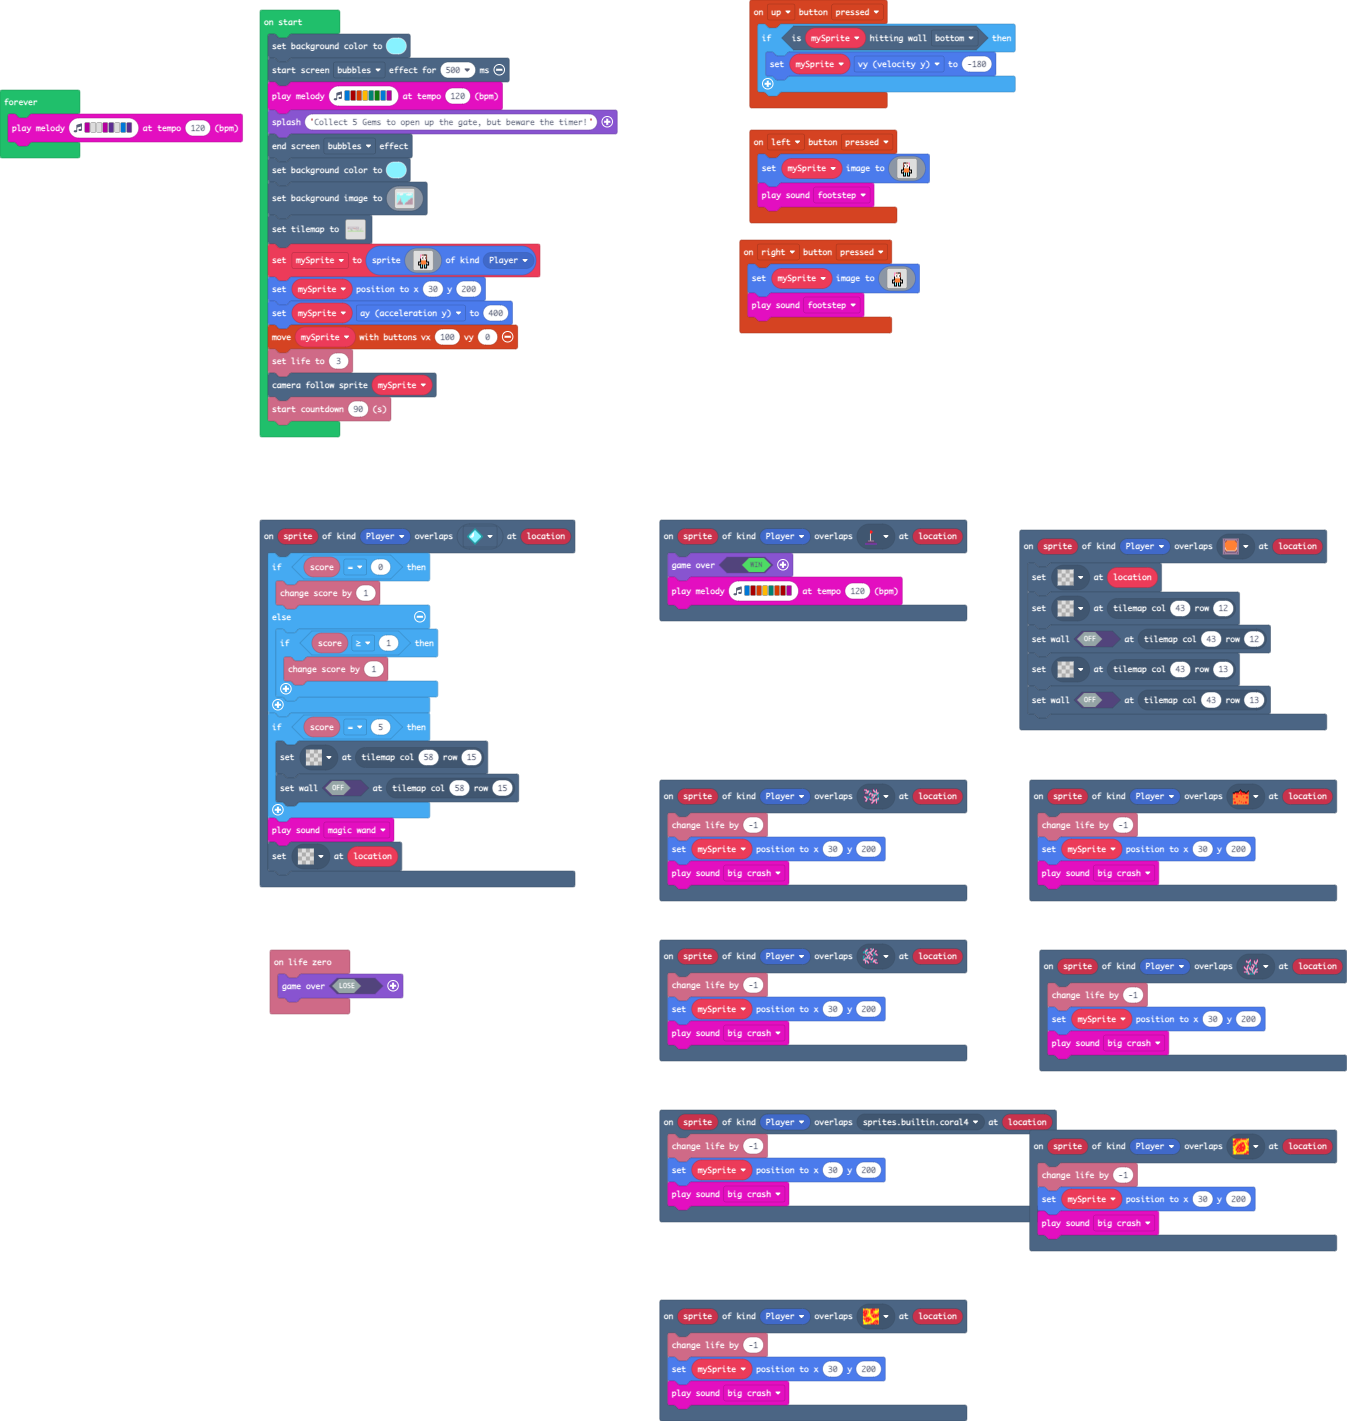
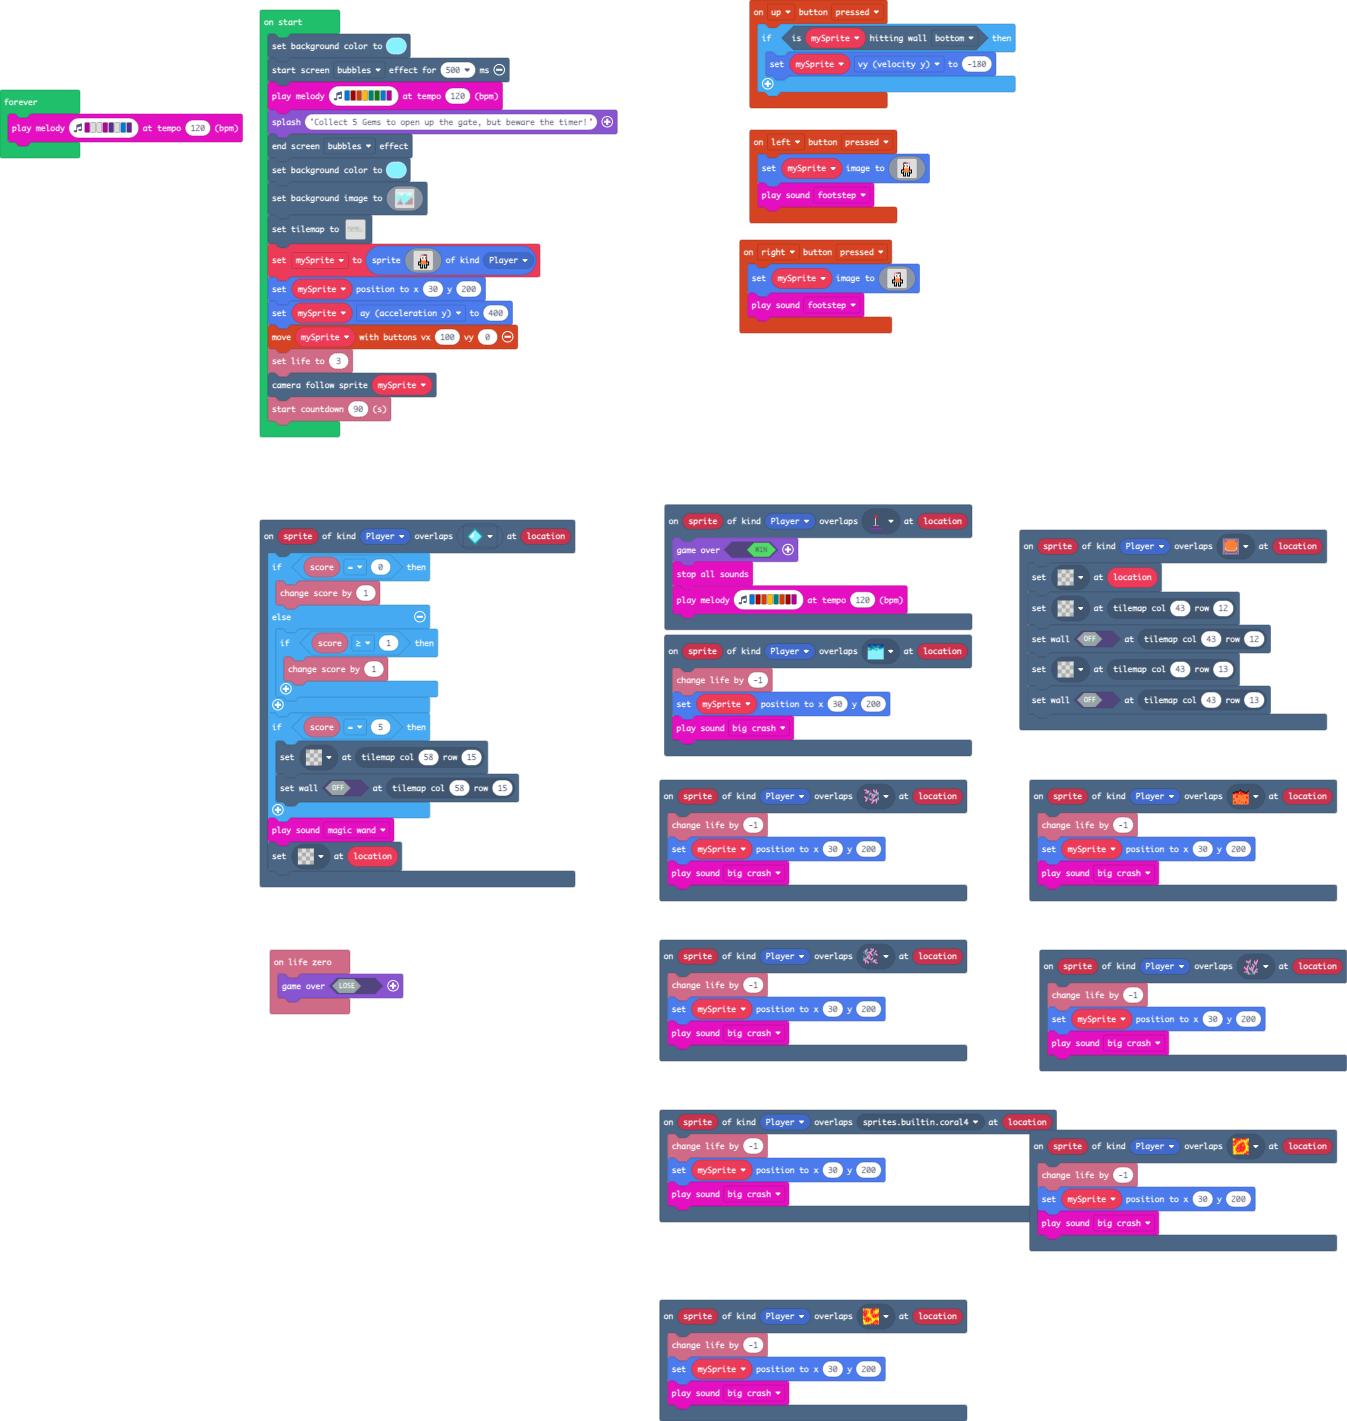
Fixed death zones

Changed region(s): [[0.4677, 0.3406, 0.7483, 0.5574]]

diff --git a/main.ts b/main.ts
@@ -25,6 +25,7 @@ scene.onOverlapTile(SpriteKind.Player, assets.tile`myTile6`, function (sprite, l
 })
 scene.onOverlapTile(SpriteKind.Player, assets.tile`myTile15`, function (sprite, location) {
     game.over(true)
+    music.stopAllSounds()
     music.playMelody("E C5 B A F B C5 C ", 120)
 })
 scene.onOverlapTile(SpriteKind.Player, sprites.dungeon.hazardLava0, function (sprite, location) {
@@ -97,6 +98,11 @@ scene.onOverlapTile(SpriteKind.Player, sprites.dungeon.buttonOrangeDepressed, fu
     tiles.setWallAt(tiles.getTileLocation(43, 13), false)
 })
 scene.onOverlapTile(SpriteKind.Player, sprites.dungeon.hazardLava1, function (sprite, location) {
+    info.changeLifeBy(-1)
+    mySprite.setPosition(30, 200)
+    music.bigCrash.play()
+})
+scene.onOverlapTile(SpriteKind.Player, sprites.dungeon.hazardWater, function (sprite, location) {
     info.changeLifeBy(-1)
     mySprite.setPosition(30, 200)
     music.bigCrash.play()
